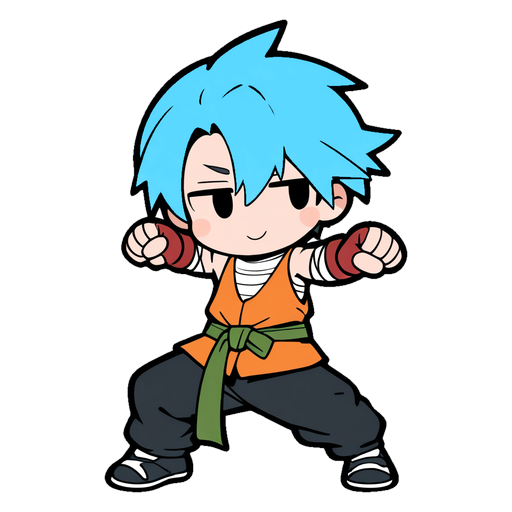
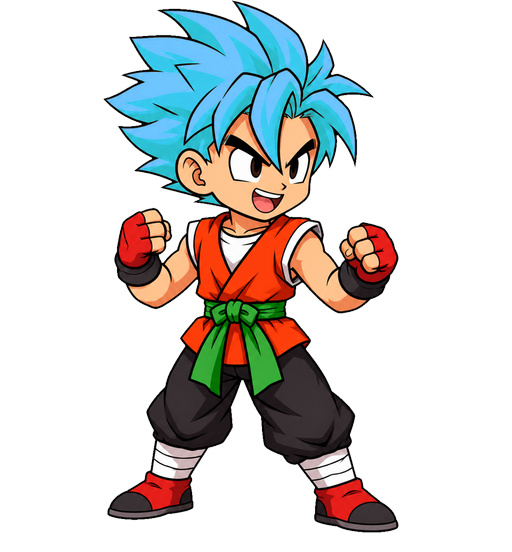
Kaito: all 6 forms from the user's pictures, with punch pictures for every form

diff --git a/sw.js b/sw.js
@@ -3,7 +3,7 @@
 // when online, so the next launch gets the newest version.
 // Bump CACHE when the file list changes.
 
-const CACHE = 'ki-defenders-v24';
+const CACHE = 'ki-defenders-v25';
 
 const FILES = [
   './',
@@ -63,14 +63,16 @@ const FILES = [
   'src/ui/theme.js',
   'src/ui/menuBackground.js',
   'art/kaito_0.png',
-  'art/kaito_0_attack.png',
   'art/kaito_1.png',
-  'art/kaito_1_attack.png',
   'art/kaito_2.png',
   'art/kaito_3.png',
   'art/kaito_4.png',
-  'art/kaito_4_attack.png',
   'art/kaito_5.png',
+  'art/kaito_0_attack.png',
+  'art/kaito_1_attack.png',
+  'art/kaito_2_attack.png',
+  'art/kaito_3_attack.png',
+  'art/kaito_4_attack.png',
   'art/kaito_5_attack.png',
 ];
 

diff --git a/src/data/art.js b/src/data/art.js
@@ -5,11 +5,9 @@
 // Anything not listed keeps the art drawn in code, so pictures can be added a few at a time.
 
 export const ART_FILES = [
-  'kaito_0', 'kaito_0_attack',
-  'kaito_1', 'kaito_1_attack',
-  'kaito_2', 'kaito_3', // no punch pictures yet: these forms only do the jump
-  'kaito_4', 'kaito_4_attack',
-  'kaito_5', 'kaito_5_attack',
+  // Kaito, all 6 forms, standing and punching
+  'kaito_0', 'kaito_1', 'kaito_2', 'kaito_3', 'kaito_4', 'kaito_5',
+  'kaito_0_attack', 'kaito_1_attack', 'kaito_2_attack', 'kaito_3_attack', 'kaito_4_attack', 'kaito_5_attack',
 ];
 
 // How big each picture is shown in battle (pixels). Bigger PNGs are shrunk to fit;
